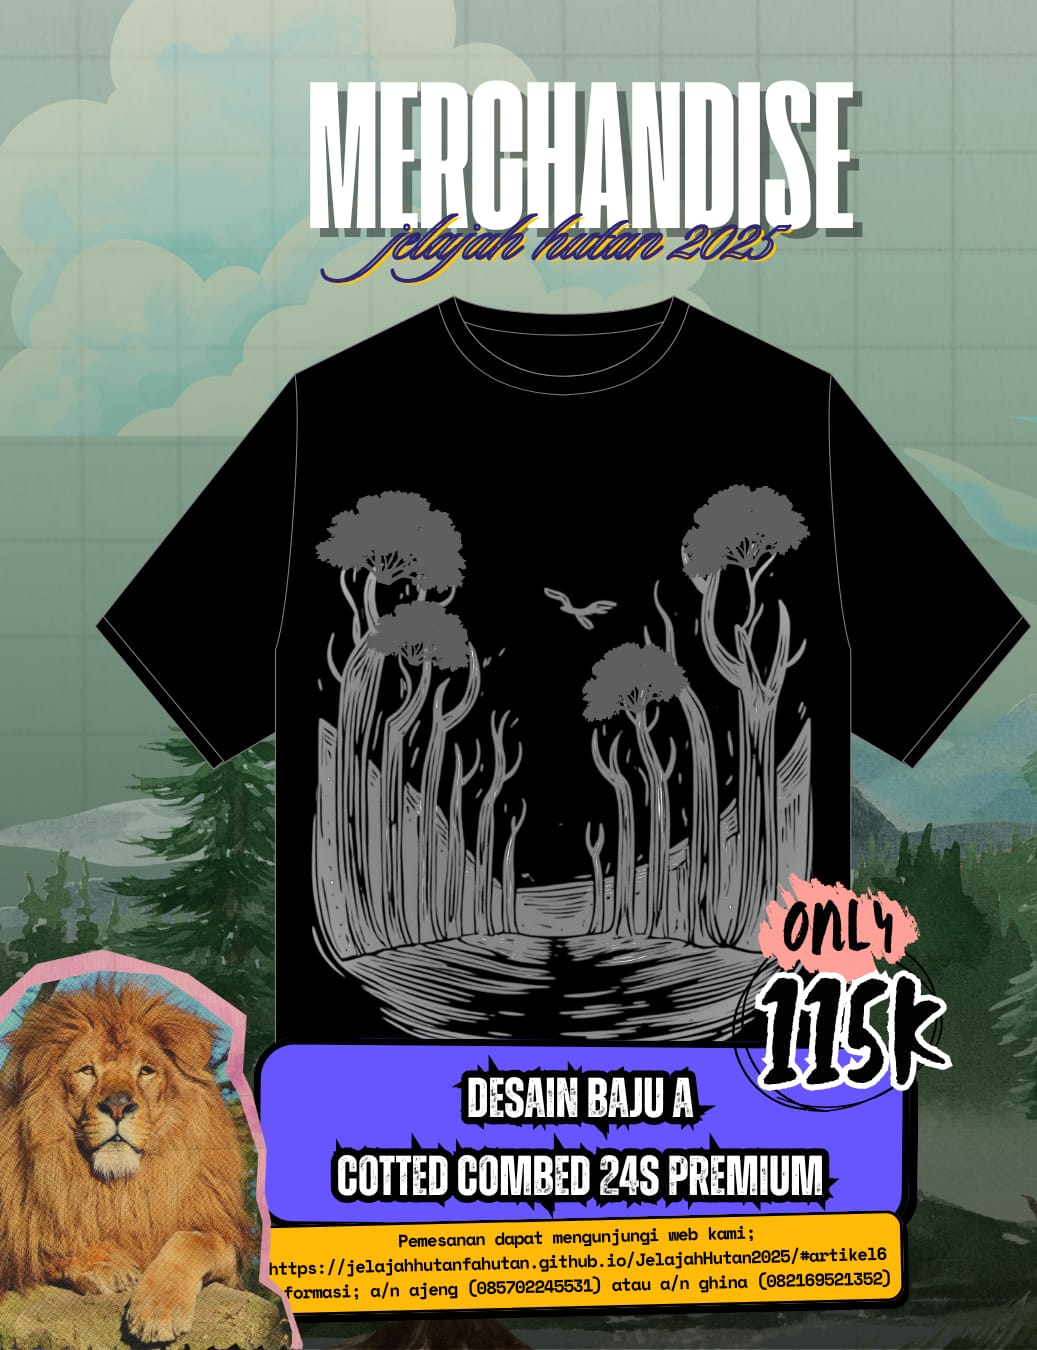
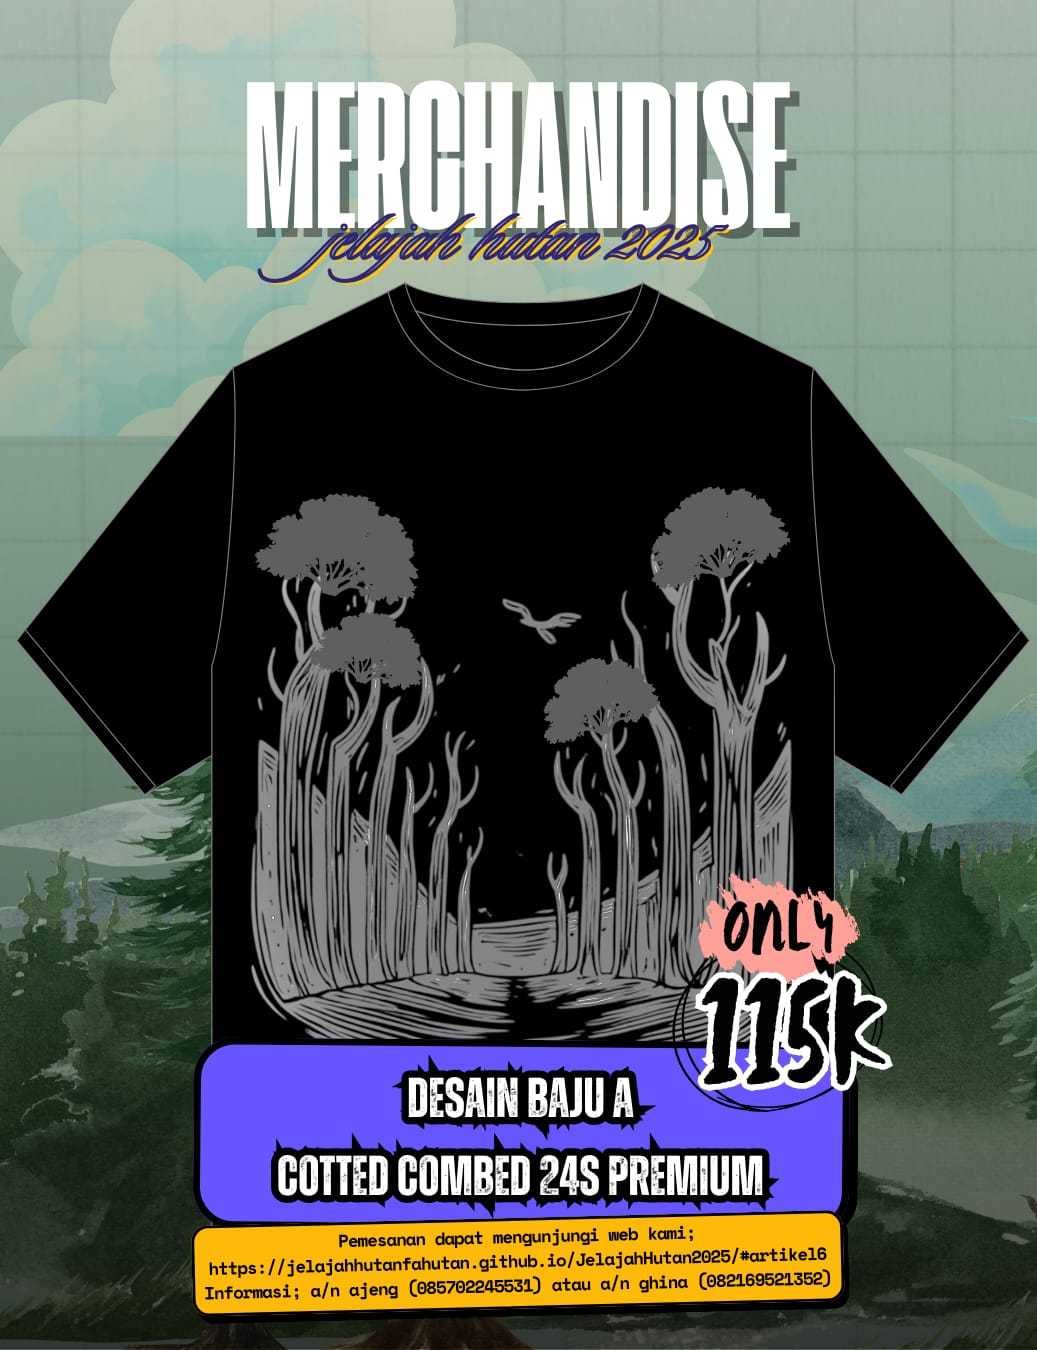
Auto update from VS Code

diff --git a/index.html b/index.html
@@ -1045,11 +1045,75 @@
       box-shadow: 0 10px 25px rgba(147,209,124,0.5);
     }
 
+    /* ========== PRODUCT IMAGE SECTION ========== */
+    .product-image-section {
+      display: flex;
+      flex-direction: column;
+      gap: 20px;
+    }
+
+    .product-image {
+      border-radius: 20px;
+      overflow: hidden;
+      box-shadow: 0 15px 40px rgba(0,0,0,0.4);
+    }
+
+    .product-image img {
+      width: 100%;
+      height: auto;
+      display: block;
+    }
+
+    /* ========== PRODUCT GALLERY POSITION ========== */
+    .product-gallery {
+      margin-top: 20px;
+    }
+
+    .product-gallery h3 {
+      color: var(--gold);
+      margin-bottom: 15px;
+      text-align: center;
+      font-size: 20px;
+    }
+
+    .gallery-thumbnails {
+      display: grid;
+      grid-template-columns: repeat(auto-fit, minmax(100px, 1fr));
+      gap: 12px;
+      margin-top: 15px;
+    }
+
+    .thumbnail {
+      border-radius: 10px;
+      overflow: hidden;
+      cursor: pointer;
+      border: 2px solid transparent;
+      transition: all 0.3s ease;
+    }
+
+    .thumbnail.active {
+      border-color: var(--gold);
+    }
+
+    .thumbnail img {
+      width: 100%;
+      height: 80px;
+      object-fit: cover;
+    }
+
     /* Responsive design untuk product detail */
     @media (max-width: 768px) {
       .product-main {
         grid-template-columns: 1fr;
         gap: 25px;
+      }
+      
+      .product-image-section {
+        order: 1;
+      }
+      
+      .product-info {
+        order: 2;
       }
       
       .size-options, .color-options {
@@ -1058,6 +1122,14 @@
       
       .specs-grid {
         grid-template-columns: 1fr;
+      }
+      
+      .gallery-thumbnails {
+        grid-template-columns: repeat(auto-fit, minmax(80px, 1fr));
+      }
+      
+      .thumbnail img {
+        height: 60px;
       }
     }
 
@@ -1070,6 +1142,10 @@
       .quantity-selector {
         flex-direction: column;
         gap: 10px;
+      }
+      
+      .gallery-thumbnails {
+        grid-template-columns: repeat(3, 1fr);
       }
     }
 
@@ -1424,22 +1500,6 @@
       margin-bottom: 40px;
     }
 
-    .product-image {
-      border-radius: 20px;
-      overflow: hidden;
-      box-shadow: 0 15px 40px rgba(0,0,0,0.4);
-    }
-
-    .product-image img {
-      width: 100%;
-      height: auto;
-      display: block;
-    }
-
-    .product-info {
-      padding: 20px 0;
-    }
-
     .product-description {
       font-size: 16px;
       line-height: 1.7;
@@ -1514,66 +1574,6 @@
       font-weight: 500;
     }
 
-    .product-actions {
-      display: flex;
-      gap: 15px;
-      flex-wrap: wrap;
-      margin-top: 30px;
-    }
-
-    .quantity-selector {
-      display: flex;
-      align-items: center;
-      gap: 15px;
-      margin: 20px 0;
-    }
-
-    .quantity-btn {
-      width: 40px;
-      height: 40px;
-      border-radius: 50%;
-      border: 2px solid var(--leaf);
-      background: transparent;
-      color: var(--leaf);
-      font-size: 18px;
-      cursor: pointer;
-      display: flex;
-      align-items: center;
-      justify-content: center;
-      transition: all 0.3s ease;
-    }
-
-    .quantity-btn:hover {
-      background: var(--leaf);
-      color: var(--bg-deep);
-    }
-
-    .quantity-display {
-      font-size: 20px;
-      font-weight: 700;
-      color: var(--gold);
-      min-width: 50px;
-      text-align: center;
-    }
-
-    .btn-primary {
-      background: linear-gradient(135deg, var(--leaf), var(--forest));
-      color: var(--bg-deep);
-      border: none;
-      padding: 15px 30px;
-      border-radius: 12px;
-      font-weight: 700;
-      cursor: pointer;
-      transition: all 0.3s ease;
-      font-size: 16px;
-      flex: 1;
-    }
-
-    .btn-primary:hover {
-      transform: translateY(-3px);
-      box-shadow: 0 10px 25px rgba(147,209,124,0.5);
-    }
-
     .btn-secondary {
       background: transparent;
       color: var(--muted);
@@ -1590,57 +1590,6 @@
     .btn-secondary:hover {
       background: var(--leaf);
       color: var(--bg-deep);
-    }
-
-    .product-gallery {
-      margin-top: 40px;
-    }
-
-    .product-gallery h3 {
-      color: var(--gold);
-      margin-bottom: 20px;
-      text-align: center;
-    }
-
-    .gallery-thumbnails {
-      display: grid;
-      grid-template-columns: repeat(auto-fit, minmax(120px, 1fr));
-      gap: 15px;
-      margin-top: 20px;
-    }
-
-    .thumbnail {
-      border-radius: 10px;
-      overflow: hidden;
-      cursor: pointer;
-      border: 2px solid transparent;
-      transition: all 0.3s ease;
-    }
-
-    .thumbnail.active {
-      border-color: var(--gold);
-    }
-
-    .thumbnail img {
-      width: 100%;
-      height: 80px;
-      object-fit: cover;
-    }
-
-    /* Responsive design untuk product detail */
-    @media (max-width: 768px) {
-      .product-main {
-        grid-template-columns: 1fr;
-        gap: 25px;
-      }
-      
-      .product-actions {
-        flex-direction: column;
-      }
-      
-      .specs-grid {
-        grid-template-columns: 1fr;
-      }
     }
 
     /* ========== SIZE CHART STYLES ========== */
@@ -3590,7 +3539,7 @@
       'kaos-reguler': {
         name: "Kaos Jelajah Hutan 2025",
         price: 115000,
-        images: ["merchandise/A.jpeg", "merchandise/A1.jpeg"],
+        images: ["merchandise/A.jpeg", "merchandise/Aback.jpeg"],
         category: "kaos",
         description: "Kaos premium dengan bahan cotton combed 24s yang nyaman untuk dipakai sehari-hari. Desain menarik dan kekinian dengan nuansa kehutanan.",
         features: [
@@ -3617,7 +3566,7 @@
       'kaos-premium': {
         name: "Kaos Jelajah Hutan 2025",
         price: 115000,
-        images: ["merchandise/B.jpeg", "merchandise/B1.jpeg"],
+        images: ["merchandise/B.jpeg", "merchandise/Bback.jpeg"],
         category: "kaos",
         description: "Kaos premium dengan bahan cotton combed 24s yang nyaman untuk dipakai sehari-hari. Desain menarik dan kekinian dengan nuansa kehutanan.",
         features: [
@@ -3644,7 +3593,7 @@
       'kaos-limited': {
         name: "Kaos Jelajah Hutan 2025",
         price: 115000,
-        images: ["merchandise/C.jpeg", "merchandise/C1.jpeg"],
+        images: ["merchandise/C.jpeg", "merchandise/Cback.jpeg"],
         category: "kaos",
         description: "Kaos premium dengan bahan cotton combed 24s yang nyaman untuk dipakai sehari-hari. Desain menarik dan kekinian dengan nuansa kehutanan.",
         features: [
@@ -3925,6 +3874,20 @@
       // Generate size chart if available
       const sizeChartHTML = sizeCharts[product.category] ? generateSizeChart(product.category) : '';
       
+      // Generate gallery HTML jika ada multiple images
+      const galleryHTML = product.images.length > 1 ? `
+        <div class="product-gallery">
+          <h3>Galeri Produk</h3>
+          <div class="gallery-thumbnails">
+            ${product.images.map((img, index) => `
+              <div class="thumbnail ${index === 0 ? 'active' : ''}" onclick="changeProductImage('${img}', this)">
+                <img src="${img}" alt="${product.name} ${index + 1}">
+              </div>
+            `).join('')}
+          </div>
+        </div>
+      ` : '';
+      
       return `
         <div class="product-detail">
           <div class="product-header">
@@ -3933,8 +3896,11 @@
           </div>
           
           <div class="product-main">
-            <div class="product-image">
-              <img src="${product.images[0]}" alt="${product.name}" id="mainProductImage">
+            <div class="product-image-section">
+              <div class="product-image">
+                <img src="${product.images[0]}" alt="${product.name}" id="mainProductImage">
+              </div>
+              ${galleryHTML}
             </div>
             
             <div class="product-info">
@@ -4001,19 +3967,6 @@
               </div>
             </div>
           </div>
-          
-          ${product.images.length > 1 ? `
-            <div class="product-gallery">
-              <h3>Galeri Produk</h3>
-              <div class="gallery-thumbnails">
-                ${product.images.map((img, index) => `
-                  <div class="thumbnail ${index === 0 ? 'active' : ''}" onclick="changeProductImage('${img}', this)">
-                    <img src="${img}" alt="${product.name} ${index + 1}">
-                  </div>
-                `).join('')}
-              </div>
-            </div>
-          ` : ''}
         </div>
       `;
     }
